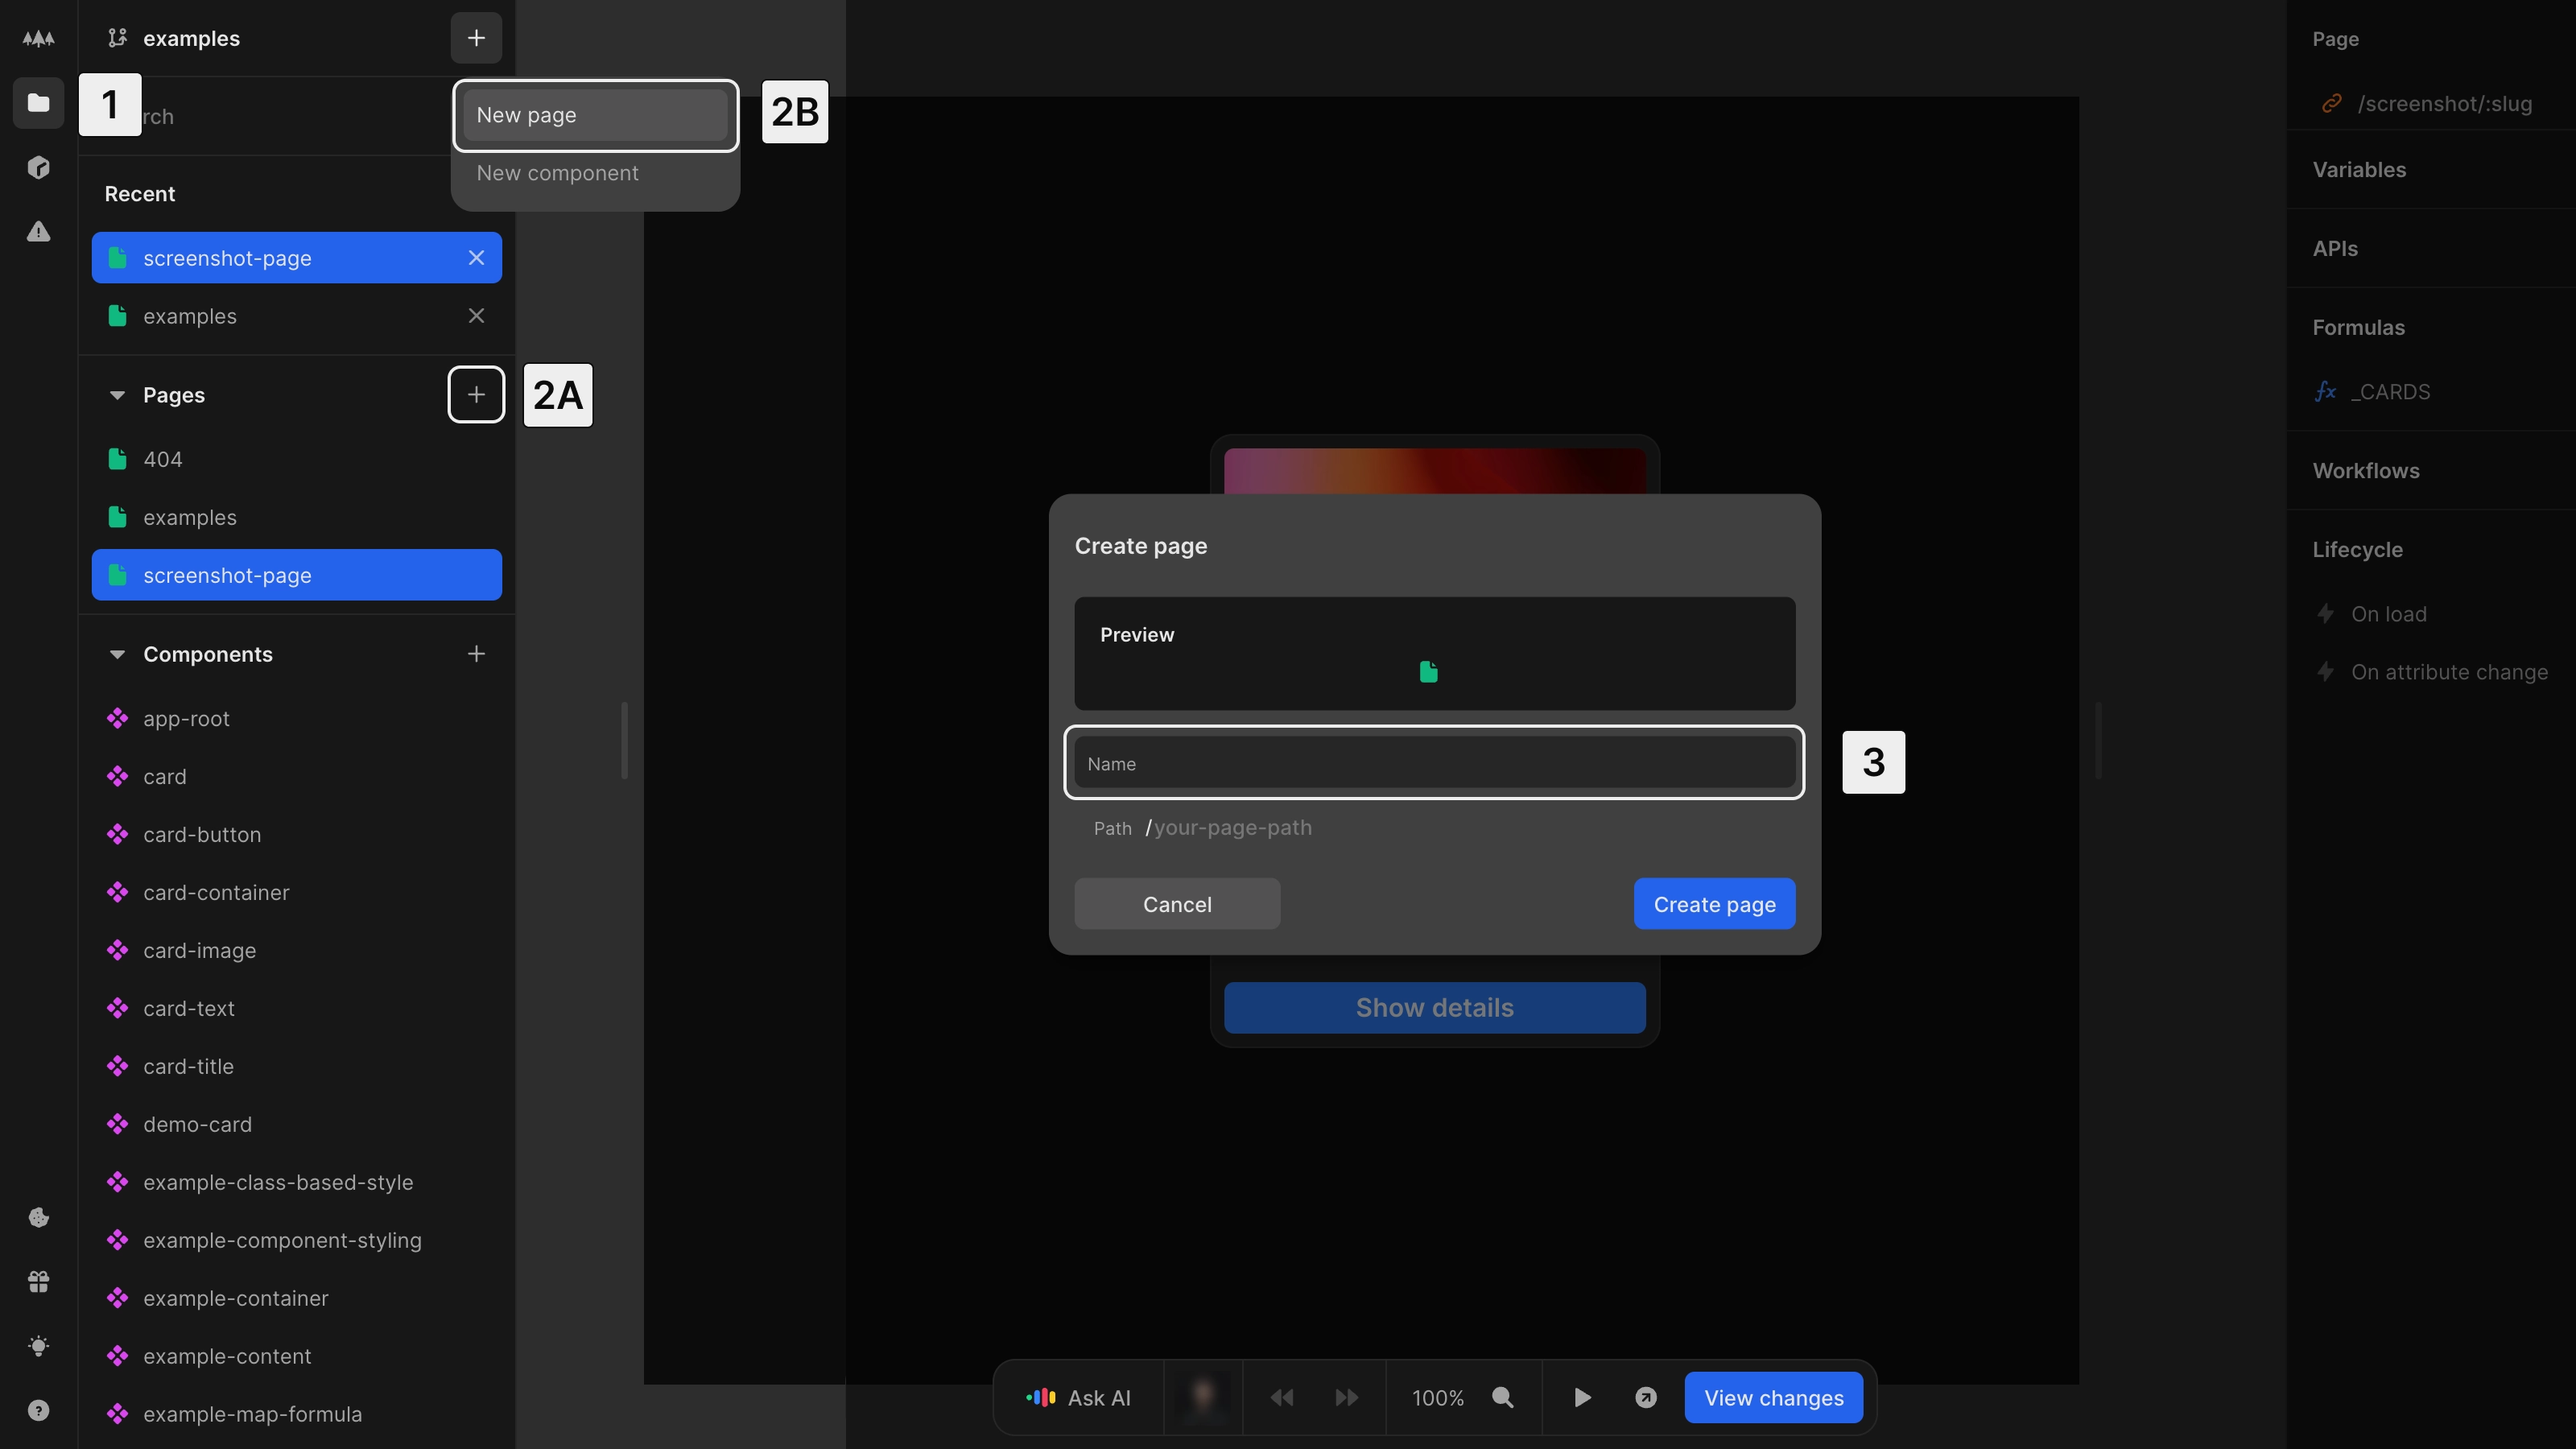
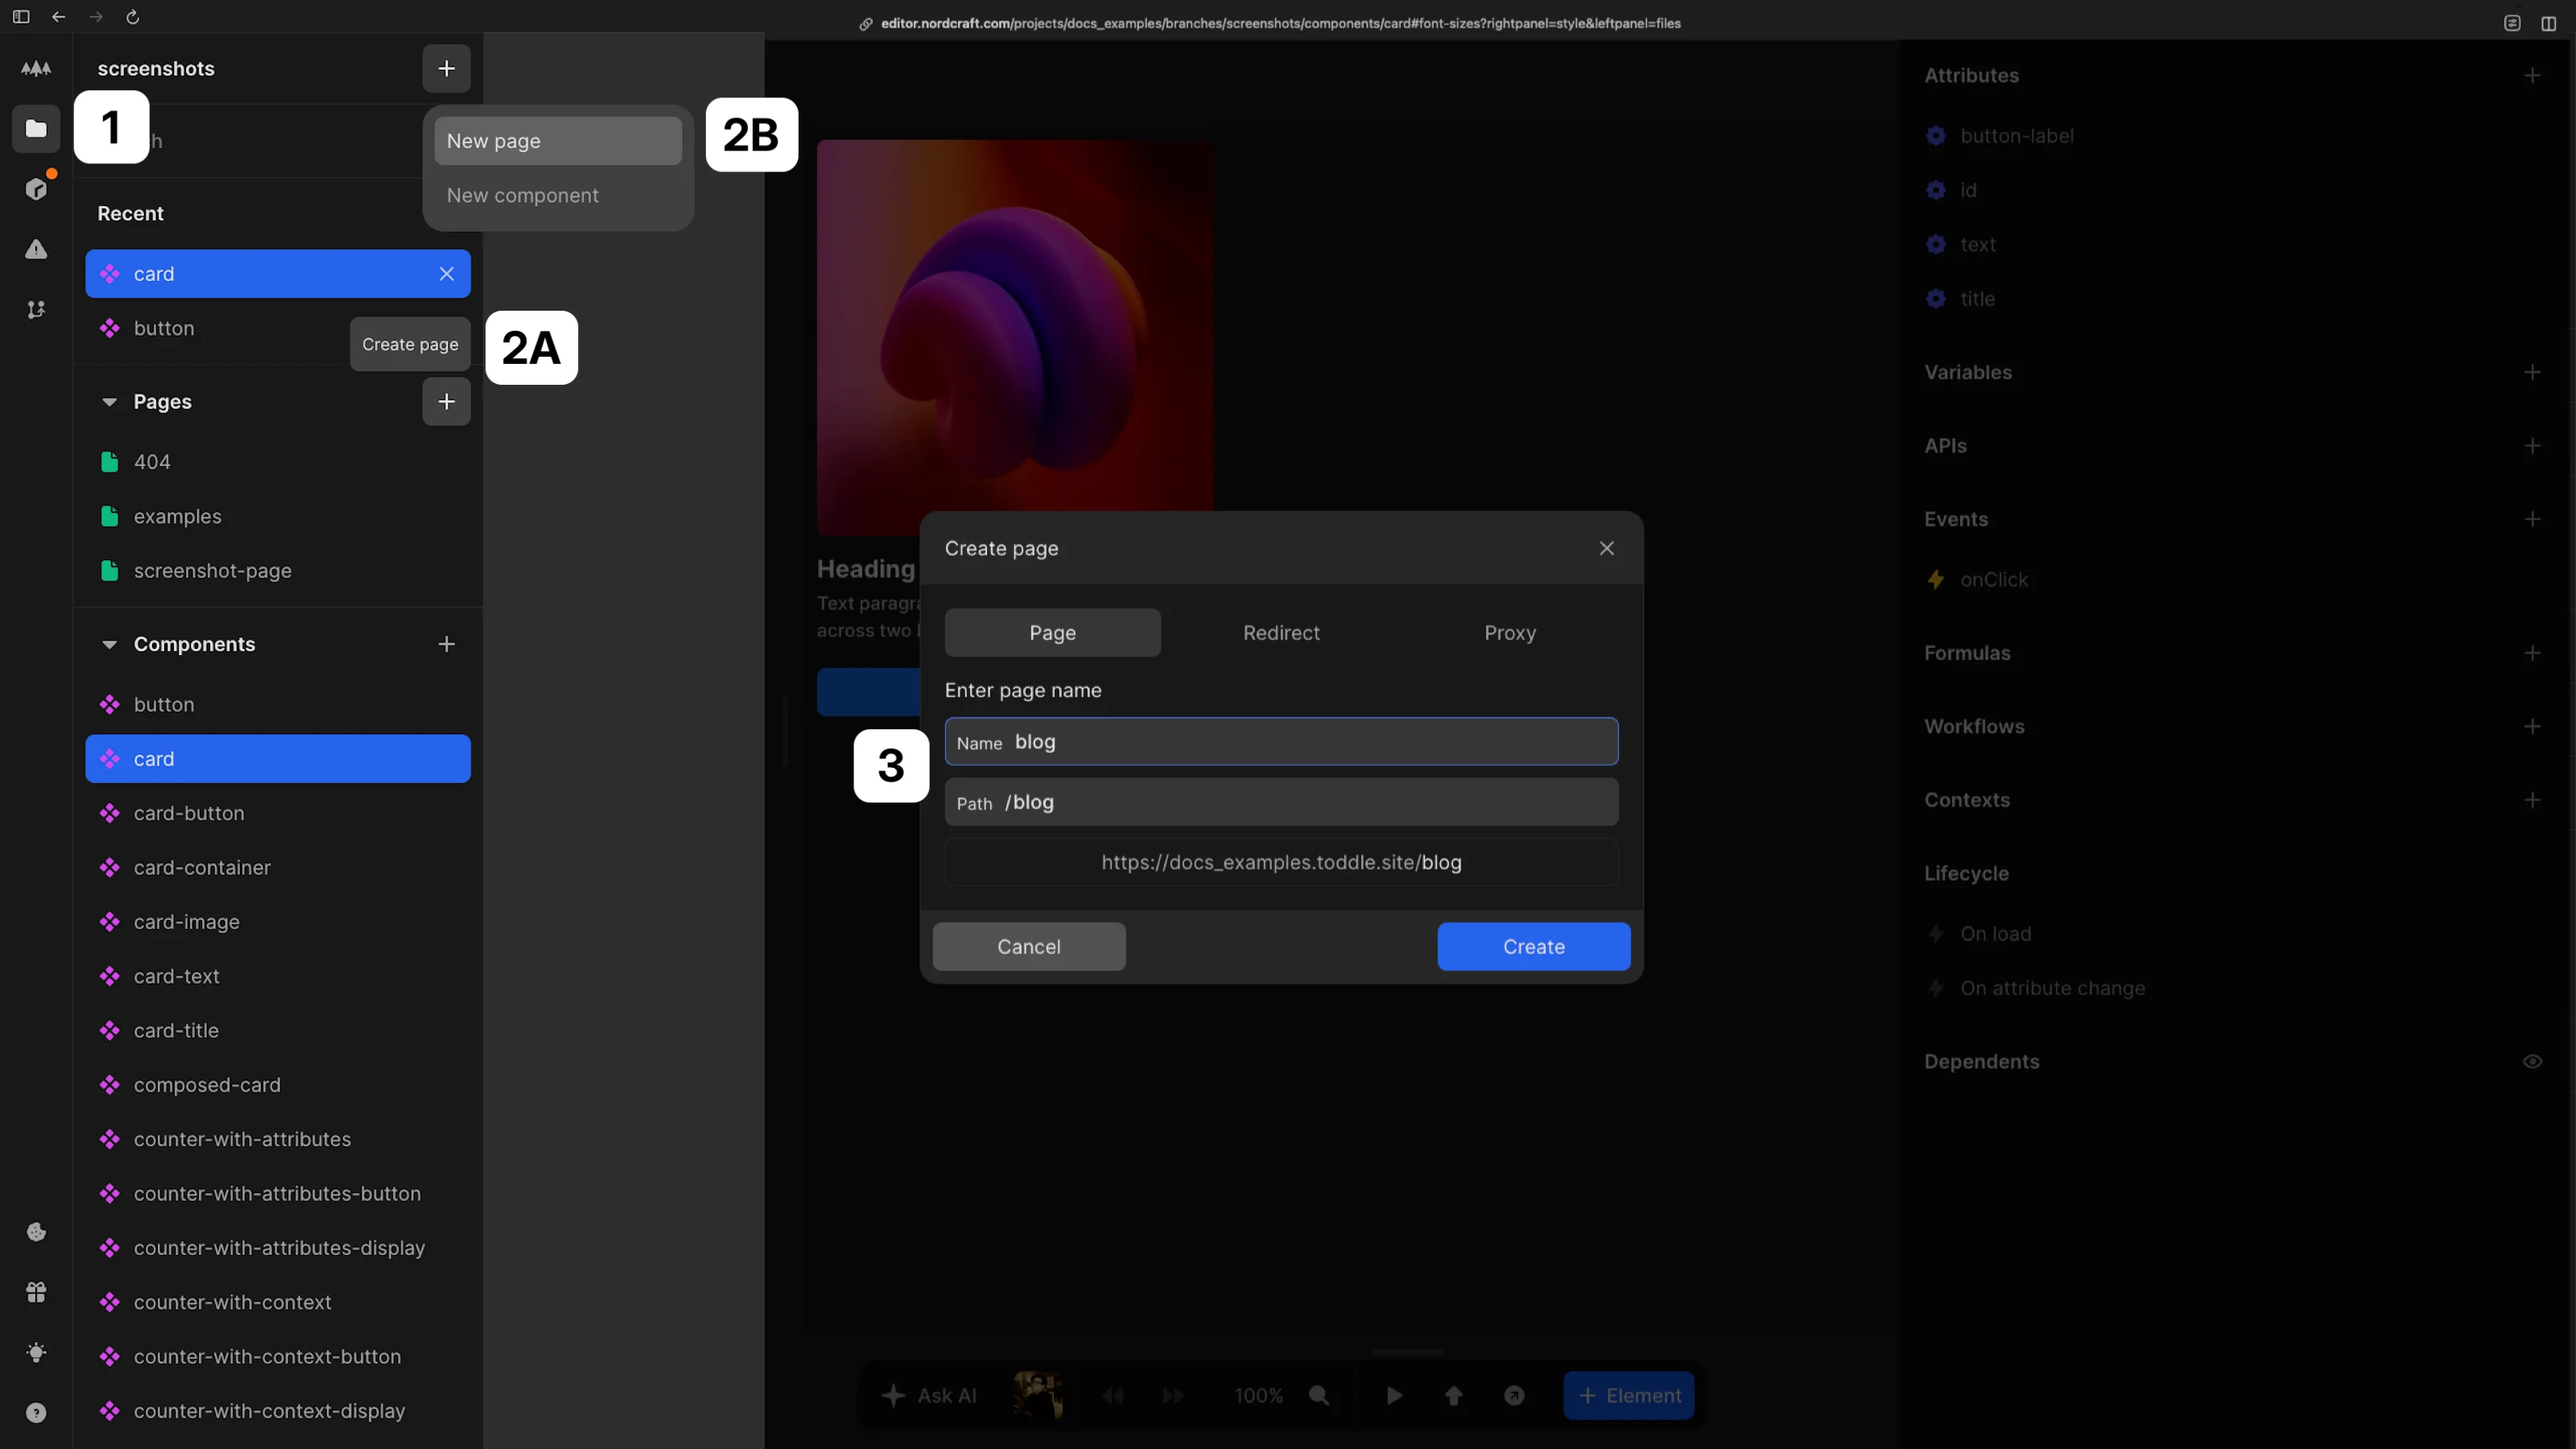
Update create page screenshot and text (#408)
* Update create page screenshot and text

* Prefer active voice

* Change info to tip

diff --git a/docs/pages/create-a-page/index.md b/docs/pages/create-a-page/index.md
@@ -5,11 +5,15 @@ description: Learn how to create and manage new pages in your Nordcraft project 
 
 # Create a page
 
-![The create page dialog is open, giving you the option to name your new page. The project sidebar is visible on the right, showing the context menu that appears when click the plus button at the top of the project sidebar.|16/9](create-a-page.webp 'Create a page'){https://editor.nordcraft.com/projects/docs_examples/branches/main/components/screenshot-page?canvas-width=800&canvas-height=800&rightpanel=style&leftpanel=Files}
+![The create page dialog is open, giving you the option to name your new page. The project sidebar is visible on the right, showing the context menu that appears when clicking the plus button at the top of the project sidebar.|16/9](create-a-page.webp 'Create a page'){https://editor.nordcraft.com/projects/docs_examples/branches/main/components/screenshot-page?canvas-width=800&canvas-height=800&rightpanel=style&leftpanel=Files}
 
 To create a new page:
 
 1. Open the [project sidebar](/the-editor/project-sidebar) by clicking the folder icon or using [kbd]Cmd/Ctrl[kbd] + [kbd]K[kbd]
 2. **(A)** Find the "Pages" section and click the [kbd]+[kbd] button next to it or
    **(B)** Click the [kbd]+[kbd] button next to the branch name at the top of the [project sidebar](/the-editor/project-sidebar) and choose `New page`
-3. Enter a name for your page and confirm with [kbd]Create page[kbd]
+3. Enter a name for your page and click [kbd]Create page[kbd]
+
+:::tip
+When you name a page, a URL path is automatically generated for you based on the name. You can edit this in the `Path` field of the create page dialog. You can further [configure page paths and parameters](/pages/page-configuration#page-configuration) after creation in the page section of the data panel.
+:::

diff --git a/docs/pages/page-configuration/index.md b/docs/pages/page-configuration/index.md
@@ -7,7 +7,7 @@ description: Set up page URLs, page metadata, and external resources to control 
 
 To configure a page, select it in the [project sidebar](/the-editor/project-sidebar) and click on it in the **Page** section of the [data panel](/the-editor/data-panel).
 
-![The page configuration dialog is open to the right of the canvas, showing the full URL of the page including query parameters, meta data including title, language and description, and a custom head asset defined, which uses an HTML link element.|16/9](page-configuration 'Page configuration'){https://editor.nordcraft.com/projects/docs_examples/branches/main/components/screenshot-page?canvas-width=800&canvas-height=800&selection=route&rightpanel=style}
+![The page configuration dialog is open to the right of the canvas, showing the full URL of the page including query parameters, meta data including title, language and description, and a custom head asset defined, which uses an HTML link element.|16/9](page-configuration.webp 'Page configuration'){https://editor.nordcraft.com/projects/docs_examples/branches/main/components/screenshot-page?canvas-width=800&canvas-height=800&selection=route&rightpanel=style}
 
 ## URL structure
 
